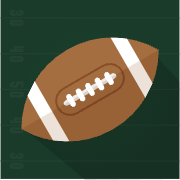
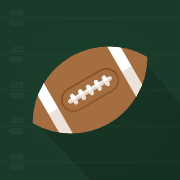
Replace football emoji with SVG on empty teams screen

Changed region(s): [[0.1111, 0.1944, 0.8889, 0.8056], [0.0, 0.0, 1.0, 1.0]]

diff --git a/frontend/src/pages/TeamsPage.jsx b/frontend/src/pages/TeamsPage.jsx
@@ -108,7 +108,9 @@ async function leaveTeam(e, teamId) {
 
       {teams.length === 0 ? (
         <div className="empty-state">
-          <div className="icon" style={{ filter: 'none', opacity: 1 }}>🏈</div>
+          <div className="icon" style={{ filter: 'none', opacity: 1 }}>
+	  	<img src="/football.svg" alt="" style={{ width: 48, height: 48 }} />
+	  </div>
           <p style={{ fontFamily: 'var(--font-display)', fontWeight: 700, textTransform: 'uppercase', fontSize: '1.05rem', marginBottom: 0, color: '#ffffff' }}>Welcome to</p>
           <p style={{ fontFamily: 'var(--font-display)', fontWeight: 700, textTransform: 'uppercase', fontSize: '2.05rem', marginBottom: 8, color: '#ffffff' }}>Gridiron Stats</p>
           <p style={{ color: 'var(--gray-300)', marginBottom: 24 }}>The fastest way to track player stats, manage your roster, and follow your team's season from the sideline.</p>

diff --git a/frontend/src/components/layout/Layout.jsx b/frontend/src/components/layout/Layout.jsx
@@ -31,7 +31,7 @@ export default function Layout() {
       <header className={styles.header}>
         <div className={styles.logoArea}>
           <div className={styles.logo} onClick={() => navigate('/teams')}>
-            <span className={styles.logoIcon}>🏈</span>
+            <img src="/football.svg" alt="" className={styles.logoIcon} />
             <div>
               <div className={styles.logoTitle}>Gridiron Stats</div>
             </div>

diff --git a/frontend/src/components/layout/Layout.module.css b/frontend/src/components/layout/Layout.module.css
@@ -22,7 +22,7 @@
   cursor: pointer;
   flex-shrink: 0;
 }
-.logoIcon { font-size: 1.5rem; }
+.logoIcon { width: 28px; height: 28px; }
 .logoTitle {
   font-family: var(--font-display);
   font-size: 1.1rem;
